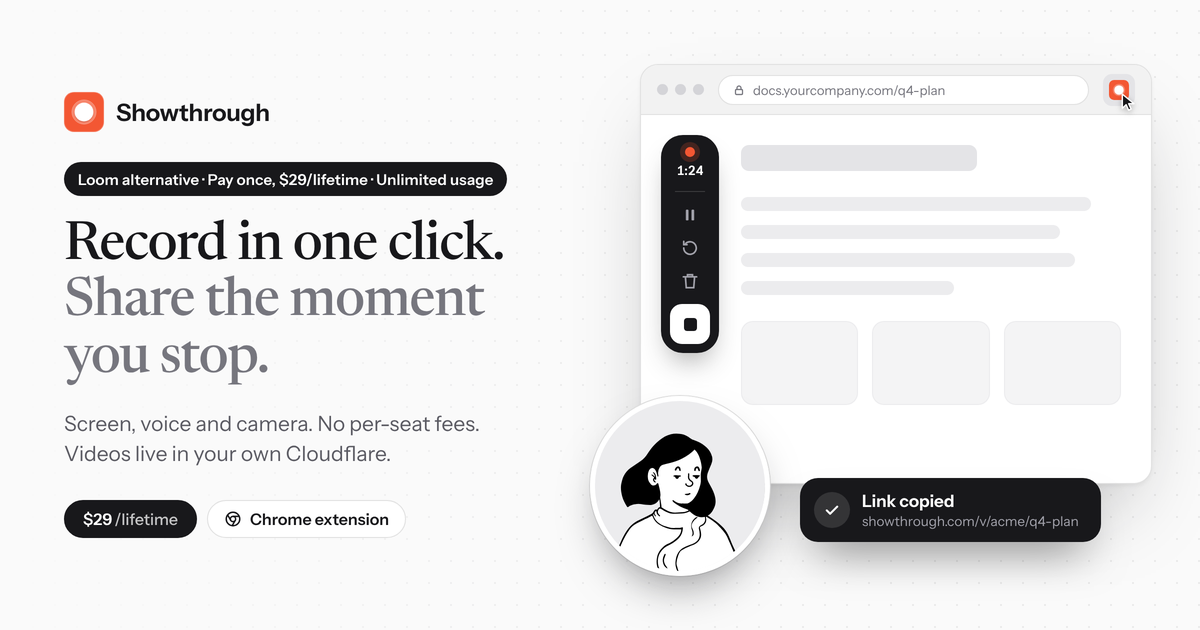
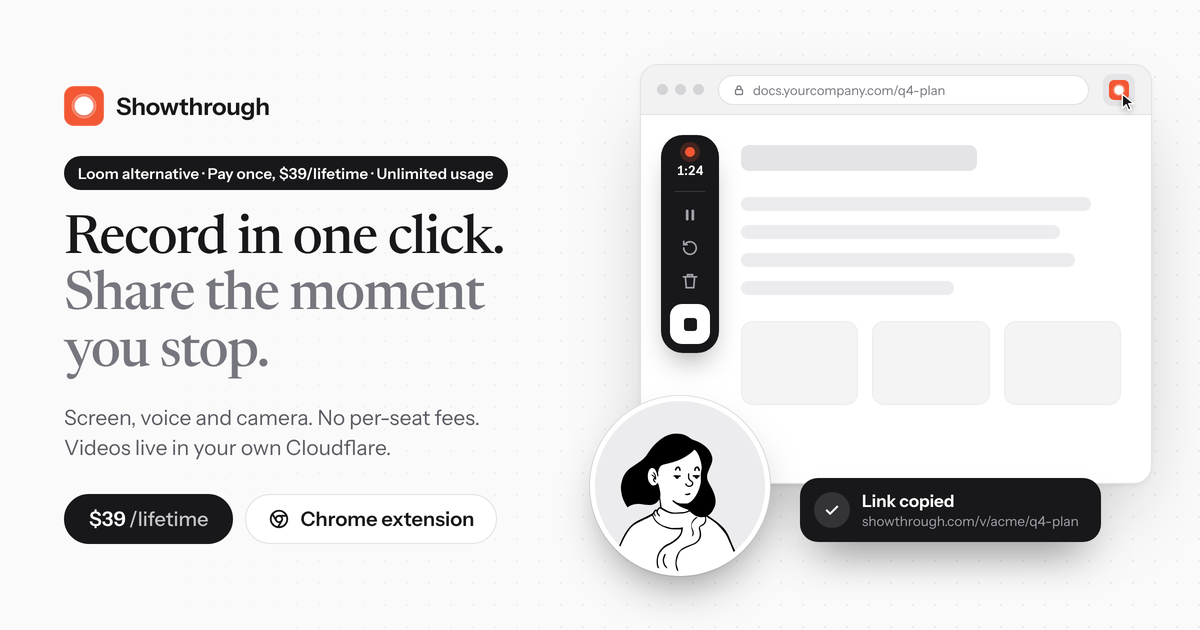
updated pricing

diff --git a/components/home-sections.tsx b/components/home-sections.tsx
@@ -2,7 +2,7 @@ import Link from "next/link";
 import { Savings } from "@/components/savings";
 import { CheckIcon, LogoMark, buttonClass } from "@/components/ui";
 import { site } from "@/lib/site";
-import { type TierState, tierStates } from "@/lib/pricing";
+import { type TierState, earlyBird, tierStates } from "@/lib/pricing";
 
 // Home page sections below the hero. Black and white for now; every color comes from theme tokens.
 
@@ -375,7 +375,14 @@ export function Pricing({ sold, price, notice }: { sold: number; price: number; 
 
         {notice && <div className="mx-auto mt-10 max-w-3xl">{notice}</div>}
 
-        <div className="mt-14 grid gap-5 lg:grid-cols-3">
+        <p
+          aria-disabled
+          className="pointer-events-none mx-auto mt-14 w-fit select-none rounded-full border border-line px-3.5 py-1 text-xs text-faint"
+        >
+          First {earlyBird.sold} sold at <span className="line-through">${earlyBird.price}</span> · Sold out
+        </p>
+
+        <div className="mt-5 grid gap-5 lg:grid-cols-3">
           {tierStates(sold).map(({ tier, state, left, size }) => (
             <TierCard key={tier.id} name={tier.name} price={tier.price} updates={tier.updates} note={tier.note} state={state} left={left} size={size} />
           ))}
@@ -475,7 +482,7 @@ const faqs: { q: string; a: React.ReactNode; text?: string }[] = [
   },
   {
     q: "Why are there three prices?",
-    a: "The first 20 customers pay $29 and customers 21 to 100 pay $59. Both include every future update, forever. After the first 100 the price is $99, and that purchase covers the version you buy without future updates. Whatever you buy keeps working.",
+    a: "The first 5 customers paid $29, customers 6 to 20 pay $39 and customers 21 to 100 pay $59. All of these include every future update, forever. After the first 100 the price is $99, and that purchase covers the version you buy without future updates. Whatever you buy keeps working.",
   },
   {
     q: "Is it a subscription?",
@@ -556,7 +563,7 @@ export function FinalCta({ price }: { price: number }) {
           Be one of the first 100.
         </h2>
         <p className="mt-6 max-w-[48ch] text-lg leading-relaxed opacity-75">
-          $29 for the first 20, then $59 up to 100, both with every future update. After that it&rsquo;s $99 without future updates.
+          $39 for the first 20, then $59 up to 100, both with every future update. After that it&rsquo;s $99 without future updates.
         </p>
         <a
           href="/buy"

diff --git a/lib/pricing.ts b/lib/pricing.ts
@@ -1,8 +1,8 @@
 // The price ladder. Safe to import anywhere (no secrets): the Dodo product IDs live in
 // environment variables and are only read on the server, in lib/billing.ts.
 //
-// Spots are counted across tiers: the first 20 buyers pay $29, buyers 21 to 100 pay $59,
-// and after that the launch price applies.
+// Spots are counted across tiers: the first 20 buyers pay $39 (the first 5 of them paid $29,
+// see earlyBird), buyers 21 to 100 pay $59, and after that the launch price applies.
 
 export type TierId = "first20" | "first100" | "launch";
 
@@ -17,10 +17,13 @@ export type Tier = {
 };
 
 export const tiers: Tier[] = [
-  { id: "first20", name: "First 20", price: 29, upTo: 20, updates: "Lifetime updates", note: "For the first 20 customers." },
+  { id: "first20", name: "First 20", price: 39, upTo: 20, updates: "Lifetime updates", note: "For customers 6 to 20." },
   { id: "first100", name: "Early", price: 59, upTo: 100, updates: "Lifetime updates", note: "For customers 21 to 100." },
   { id: "launch", name: "Launch", price: 99, upTo: null, updates: "No future updates", note: "After the first 100." },
 ];
+
+/** The very first spots, sold at the original launch price. Shown as a small sold-out note above the tiers. */
+export const earlyBird = { sold: 5, price: 29 };
 
 export type TierState = "sold-out" | "open" | "next" | "later";
 
